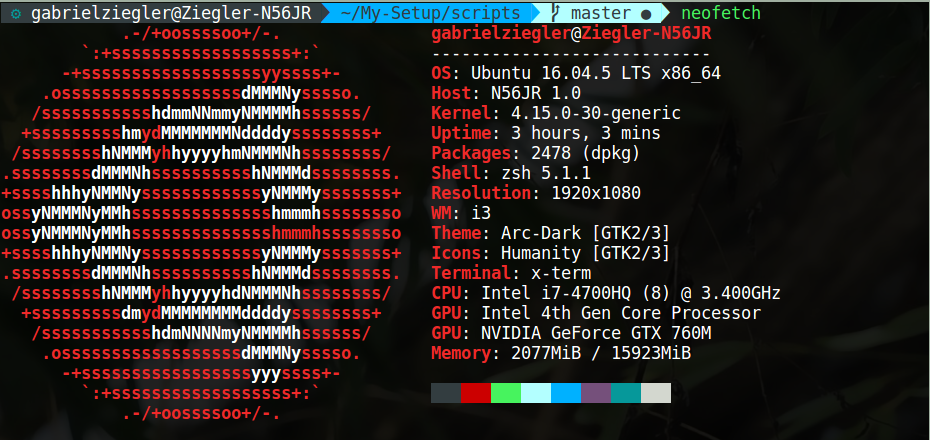
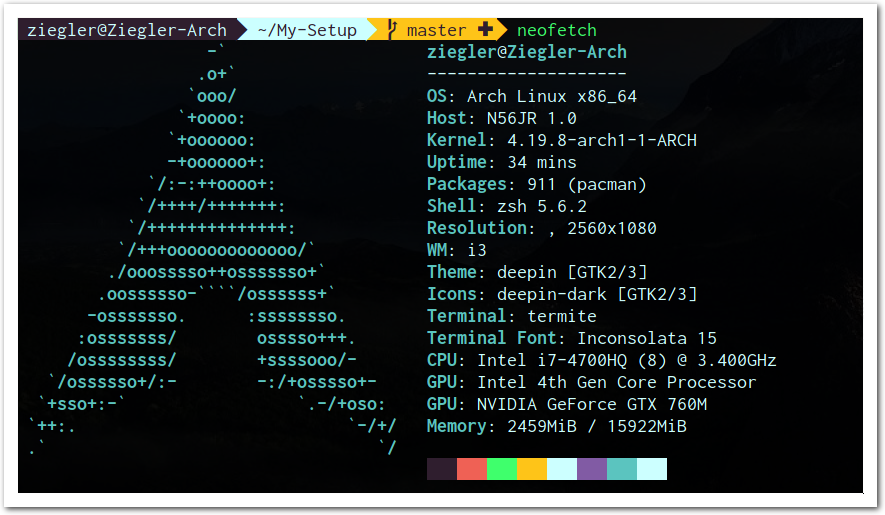
Switch VIM auto completer and update README

diff --git a/README.md b/README.md
@@ -1,8 +1,15 @@
-# Ubuntu 16.04 I3WM Environment
+# Arch Linux i3wm setup
 
-# Neofetch
+### Currently using
+
+* xinit
+* termite and urxvt
+* zsh 
+* Inconsolata 15
+
+## Specs
 ![neofetch](./images/neofetch.png)
 
-# System Overview
+## System Overview
 ![fullscreen image](./images/fullscreen.png)
 
